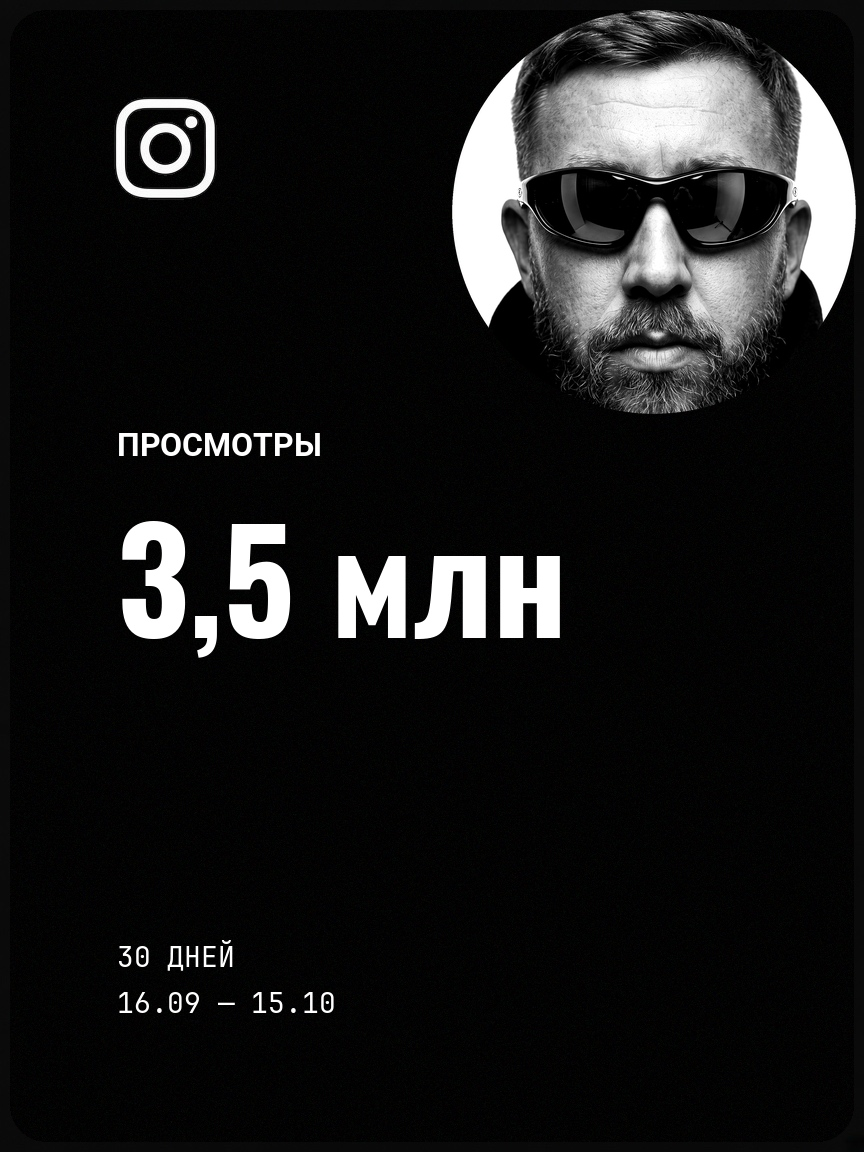
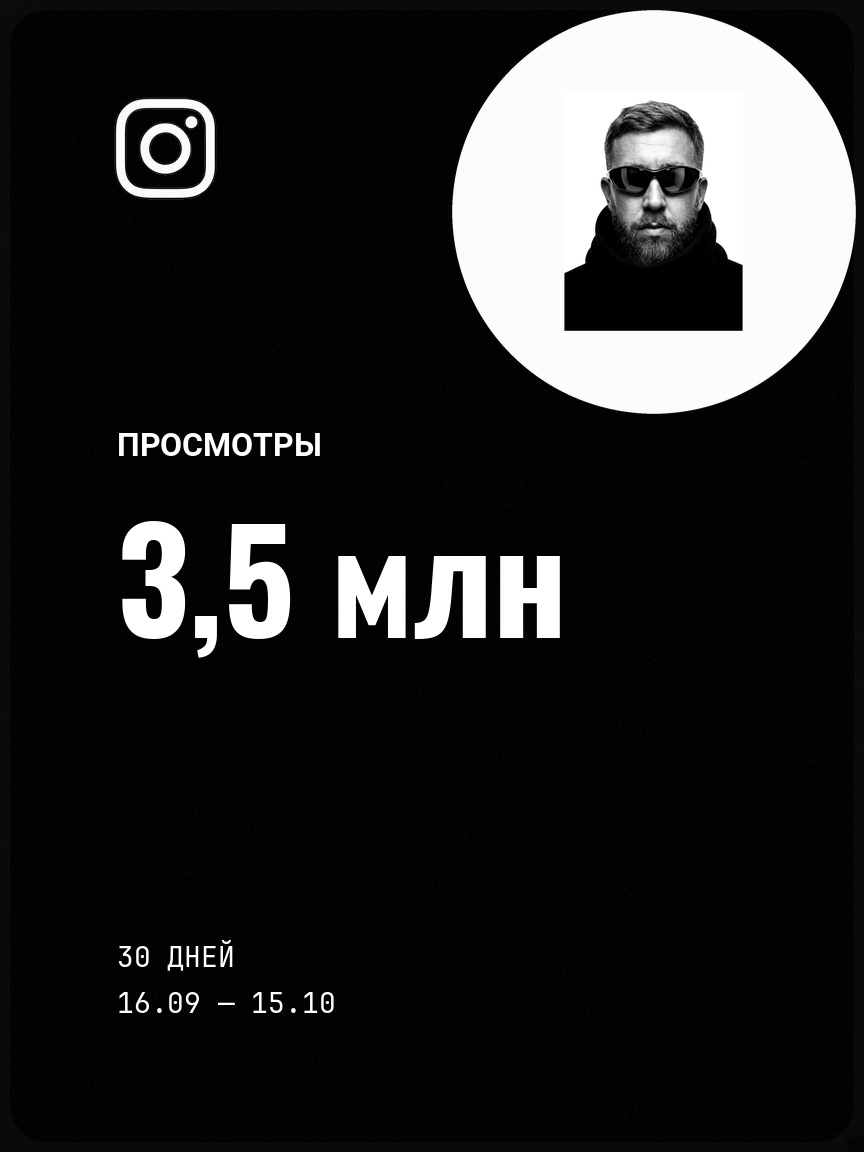
Scale down circular portrait so the full head fits
Add padding around the photo and shrink it within the circle
so hair and face are no longer cropped by the mask.

Changed region(s): [[0.5625, 0.0, 0.9688, 0.375]]

diff --git a/generate_story_views.py b/generate_story_views.py
@@ -43,24 +43,35 @@ def main() -> None:
     im = Image.fromarray(new_arr)
 
     cx, cy, r = 654, 212, 202
-    portrait = Image.open(PORTRAIT).convert("L")
-    portrait = ImageEnhance.Contrast(portrait).enhance(1.22)
-    portrait = ImageEnhance.Brightness(portrait).enhance(1.0).convert("RGB")
     side = r * 2
+    bg = (252, 252, 252)
+
+    from PIL import ImageOps
+
+    portrait = ImageOps.exif_transpose(Image.open(PORTRAIT)).convert("L")
+    portrait = ImageEnhance.Contrast(portrait).enhance(1.15)
+    portrait = ImageEnhance.Brightness(portrait).enhance(1.02).convert("RGB")
     pw, ph = portrait.size
-    scale = max(side / pw, side / ph) * 1.28
-    nw, nh = int(pw * scale), int(ph * scale)
-    portrait = portrait.resize((nw, nh), Image.Resampling.LANCZOS)
-    left = (nw - side) // 2
-    top = max(0, int((nh - side) * 0.20))
-    if top + side > nh:
-        top = nh - side
-    portrait = portrait.crop((left, top, left + side, top + side))
+
+    # Pad so the full head sits smaller inside the circle with clear margin
+    pad = int(max(pw, ph) * 0.16)
+    framed = Image.new("RGB", (pw + 2 * pad, ph + 2 * pad), bg)
+    framed.paste(portrait, (pad, pad))
+    fw, fh = framed.size
+    sq = max(fw, fh)
+    square = Image.new("RGB", (sq, sq), bg)
+    square.paste(framed, ((sq - fw) // 2, (sq - fh) // 2))
+
+    inner_fit = int(side * 0.78)
+    square = square.resize((inner_fit, inner_fit), Image.Resampling.LANCZOS)
+    circle_canvas = Image.new("RGB", (side, side), bg)
+    off = (side - inner_fit) // 2
+    circle_canvas.paste(square, (off, off))
 
     mask_hi = Image.new("L", (side * 4, side * 4), 0)
     ImageDraw.Draw(mask_hi).ellipse([1, 1, side * 4 - 2, side * 4 - 2], fill=255)
     mask = mask_hi.resize((side, side), Image.Resampling.LANCZOS)
-    im.paste(portrait, (cx - r, cy - r), mask)
+    im.paste(circle_canvas, (cx - r, cy - r), mask)
 
     draw = ImageDraw.Draw(im)
     font_label = ImageFont.truetype(str(FONT_LABEL), 32)
